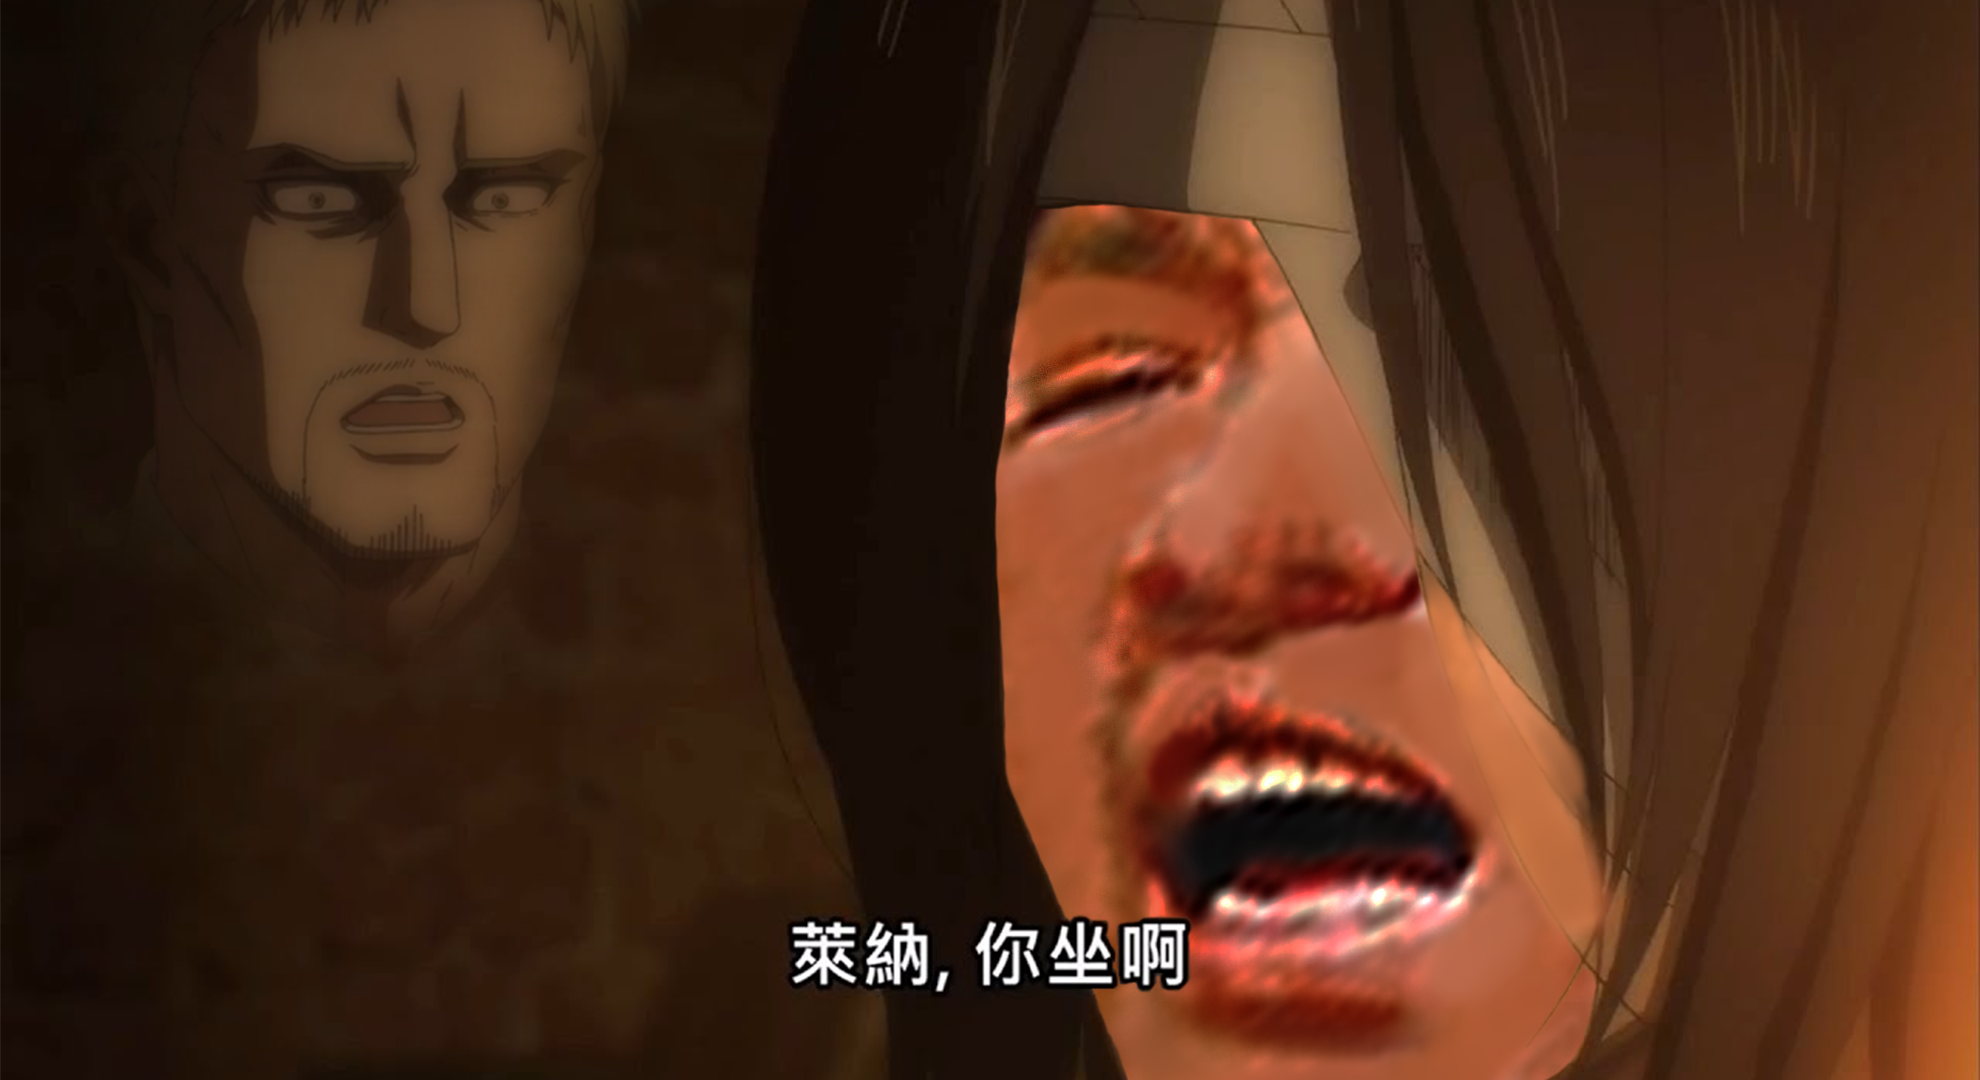
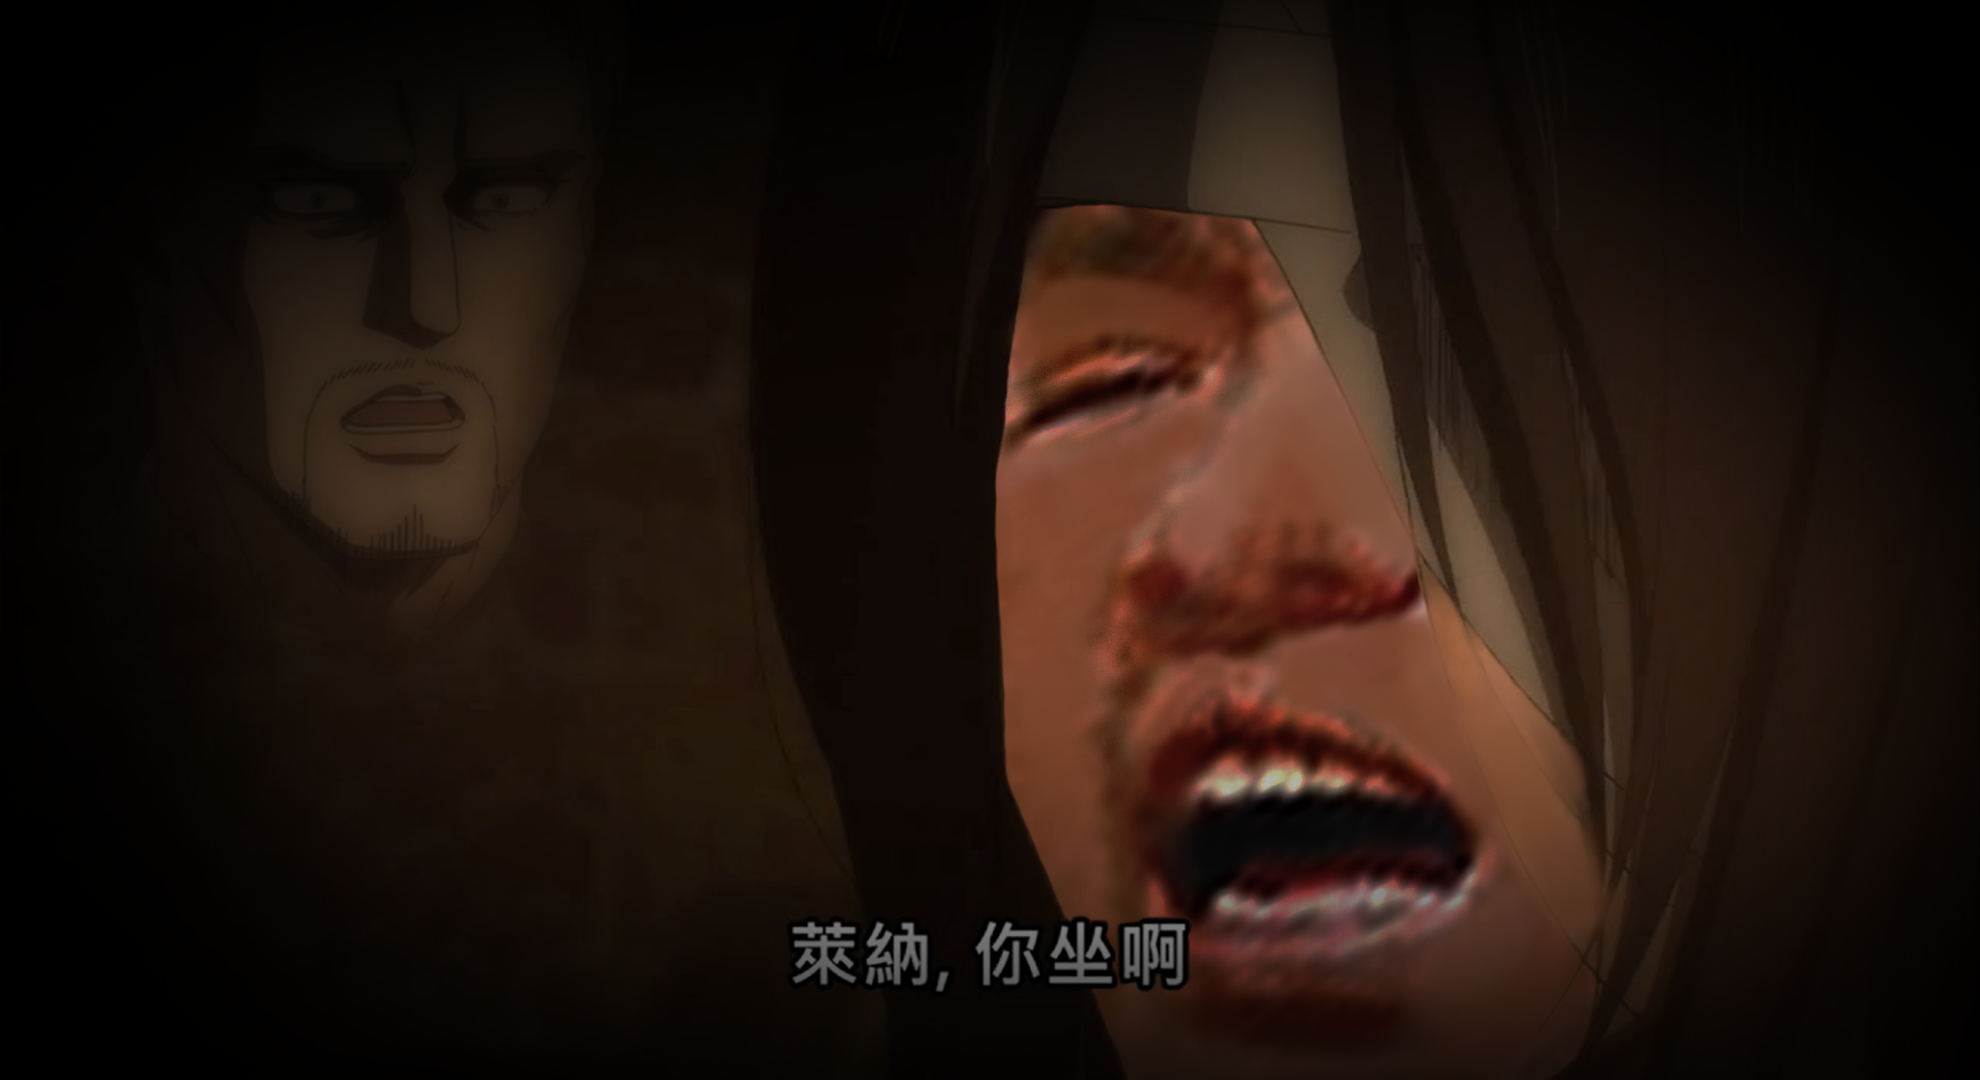
開頭跟離開加上程式ˋˇˊ

diff --git a/Assets/Scripts/Quit/QuitScene.cs b/Assets/Scripts/Quit/QuitScene.cs
@@ -1,0 +1,14 @@
+using System.Collections;
+using System.Collections.Generic;
+using UnityEngine;
+
+public class QuitScene : MonoBehaviour {
+	// Start is called before the first frame update
+	void Start() {
+		Invoke("Quit", 8f);
+	}
+
+	public void Quit() {
+		Application.Quit();
+	}
+}

diff --git a/Assets/Scripts/Title/TitleScene.cs b/Assets/Scripts/Title/TitleScene.cs
@@ -1,0 +1,11 @@
+using System.Collections;
+using System.Collections.Generic;
+using UnityEngine;
+using UnityEngine.SceneManagement;
+
+public class TitleScene : MonoBehaviour
+{
+    public void QuitGame() {
+		SceneManager.LoadScene("Quit");
+	}
+}
